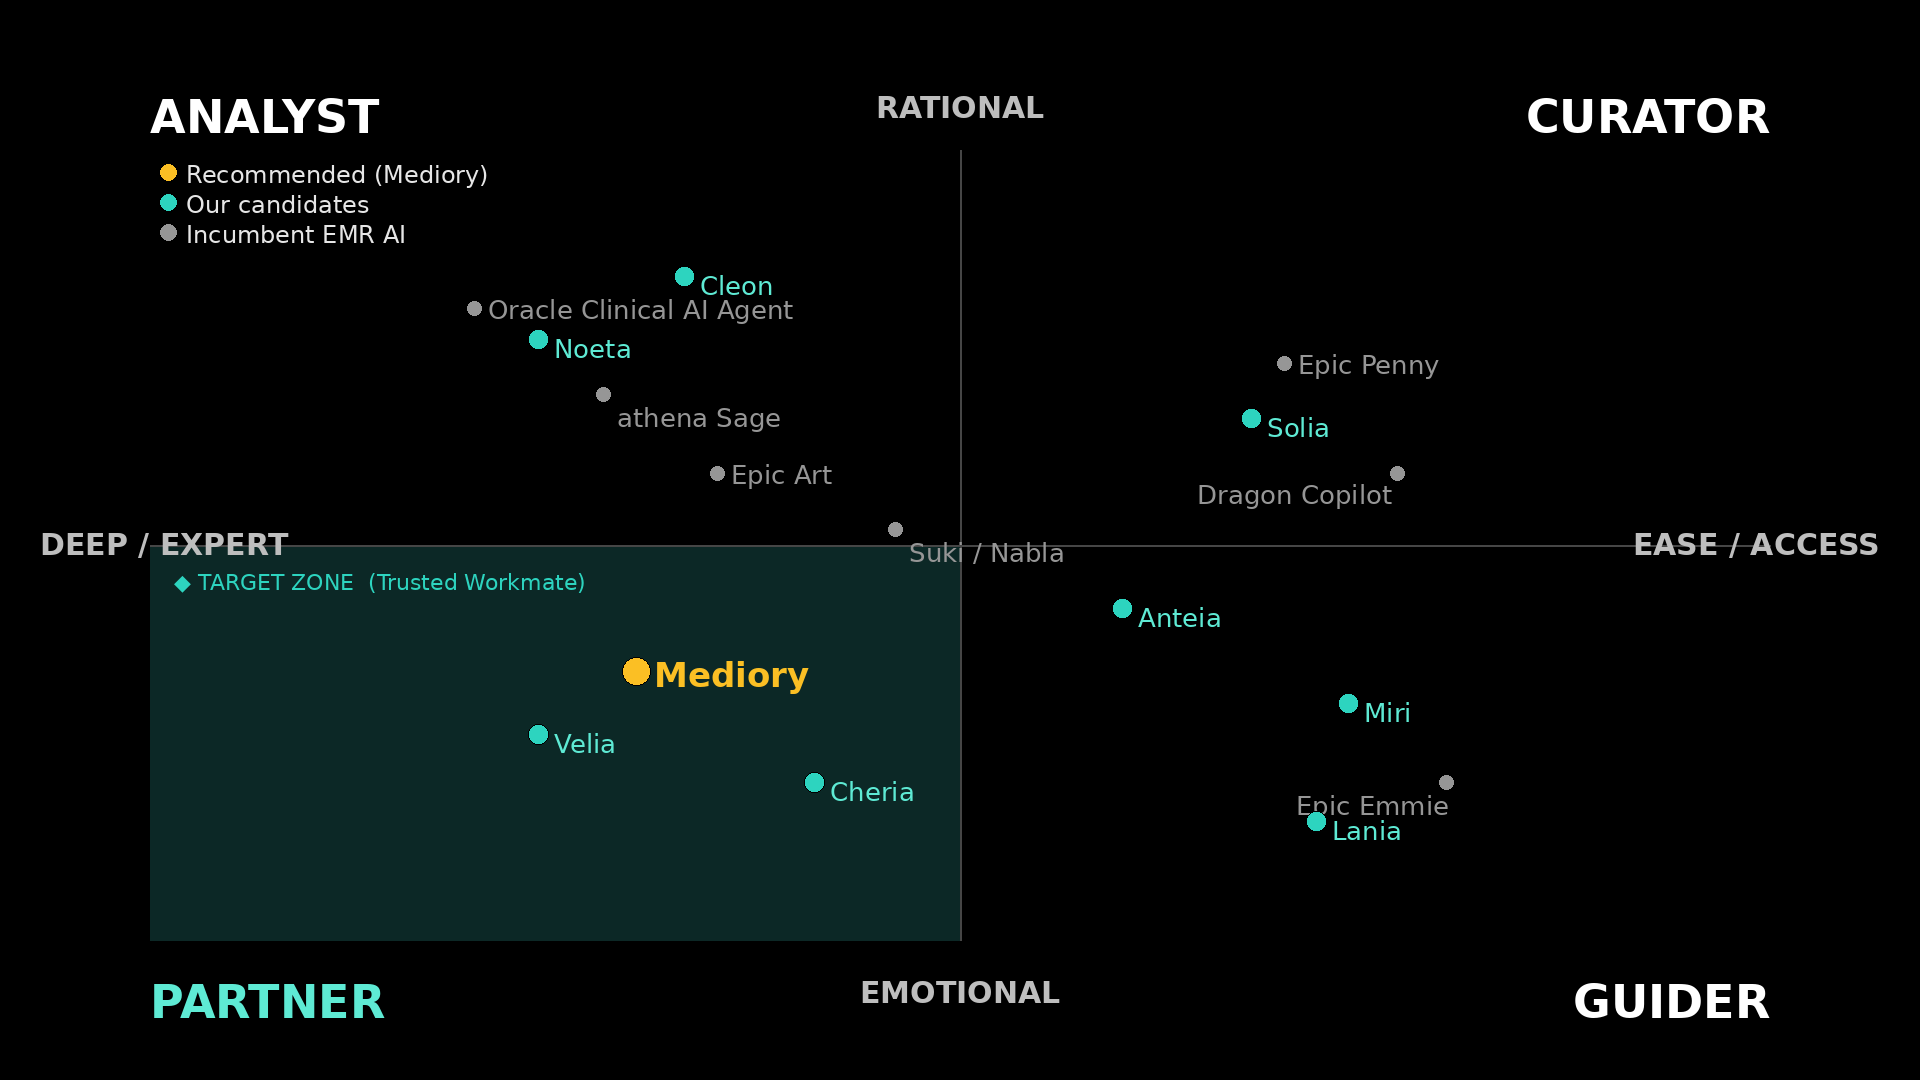
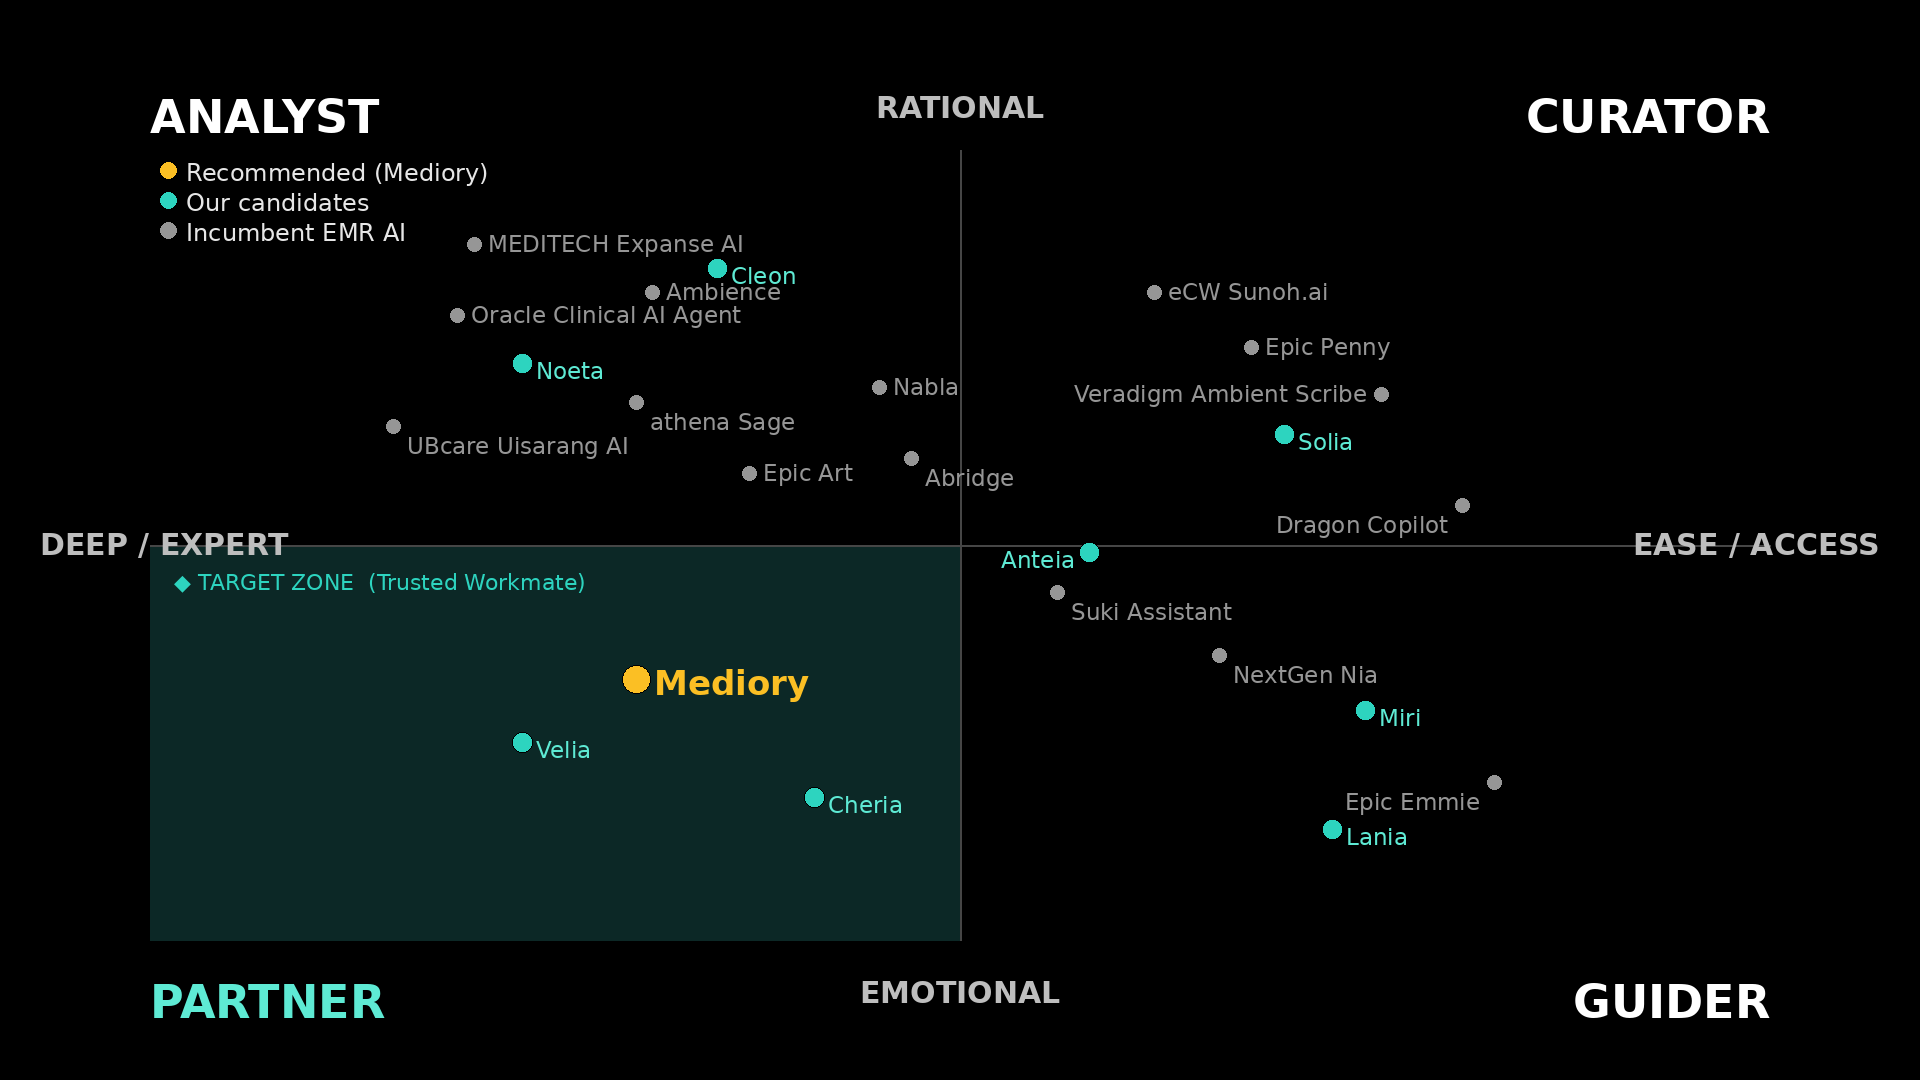
Add more EMR vendors (MEDITECH, eCW, Veradigm, Abridge, Ambience, Suki, Nabla, UBcare) to map and table

diff --git a/docs/emr-vendor-ai-positioning.md b/docs/emr-vendor-ai-positioning.md
@@ -20,8 +20,15 @@
 | **eClinicalWorks** | **Sunoh.ai** | 앰비언트 스크라이브 | 코인드+.ai |
 | **NextGen** | **Nia** | AI 오케스트레이션 에이전트 | 사람 이름 |
 | **Microsoft/Nuance** | **Dragon Copilot** (= Dragon Medical One + DAX) | 크로스-EHR 앰비언트 | 은유+Copilot |
+| **Veradigm**(구 Allscripts) | **Veradigm Ambient Scribe** (powered by AvodahMed) | 앰비언트 스크라이브 | 브랜드+기능 서술 |
+| **Abridge** | **Abridge** | 앰비언트 스크라이브(+환자 요약) | 코인드(사명=제품) |
+| **Ambience** | **Ambience** (Chart Chat) | 앰비언트·의료코딩 | 코인드 |
+| **Suki** | **Suki Assistant** | 음성 어시스턴트 | 사람 이름(페르소나) |
+| **Nabla** | **Nabla** (∇) | 앰비언트 스크라이브 | 코인드(기호) |
+| **유비케어**(→ GC메디아이) | **의사랑 AI** (Uisarang AI) | 진료기록·청구 자동화(STT→SOAP) | 기존 제품명+AI(국내) |
 
 > 참고: 다수 벤더가 스타트업(Abridge·Suki·Nabla·Ambience)을 임베드해 함께 제공.
+> **국내 동향**: 유비케어가 'GC메디아이'로 사명 변경하며 **"Beyond EMR"** 슬로건으로 *의사랑 AI* 출시(2026) — 카카오헬스케어의 직접 경쟁축. 네이밍은 **기존 EMR 제품명(의사랑)+AI** 의 서술형으로, 역시 'AI=기존 EMR의 확장기능' 프레임.
 
 ---
 
